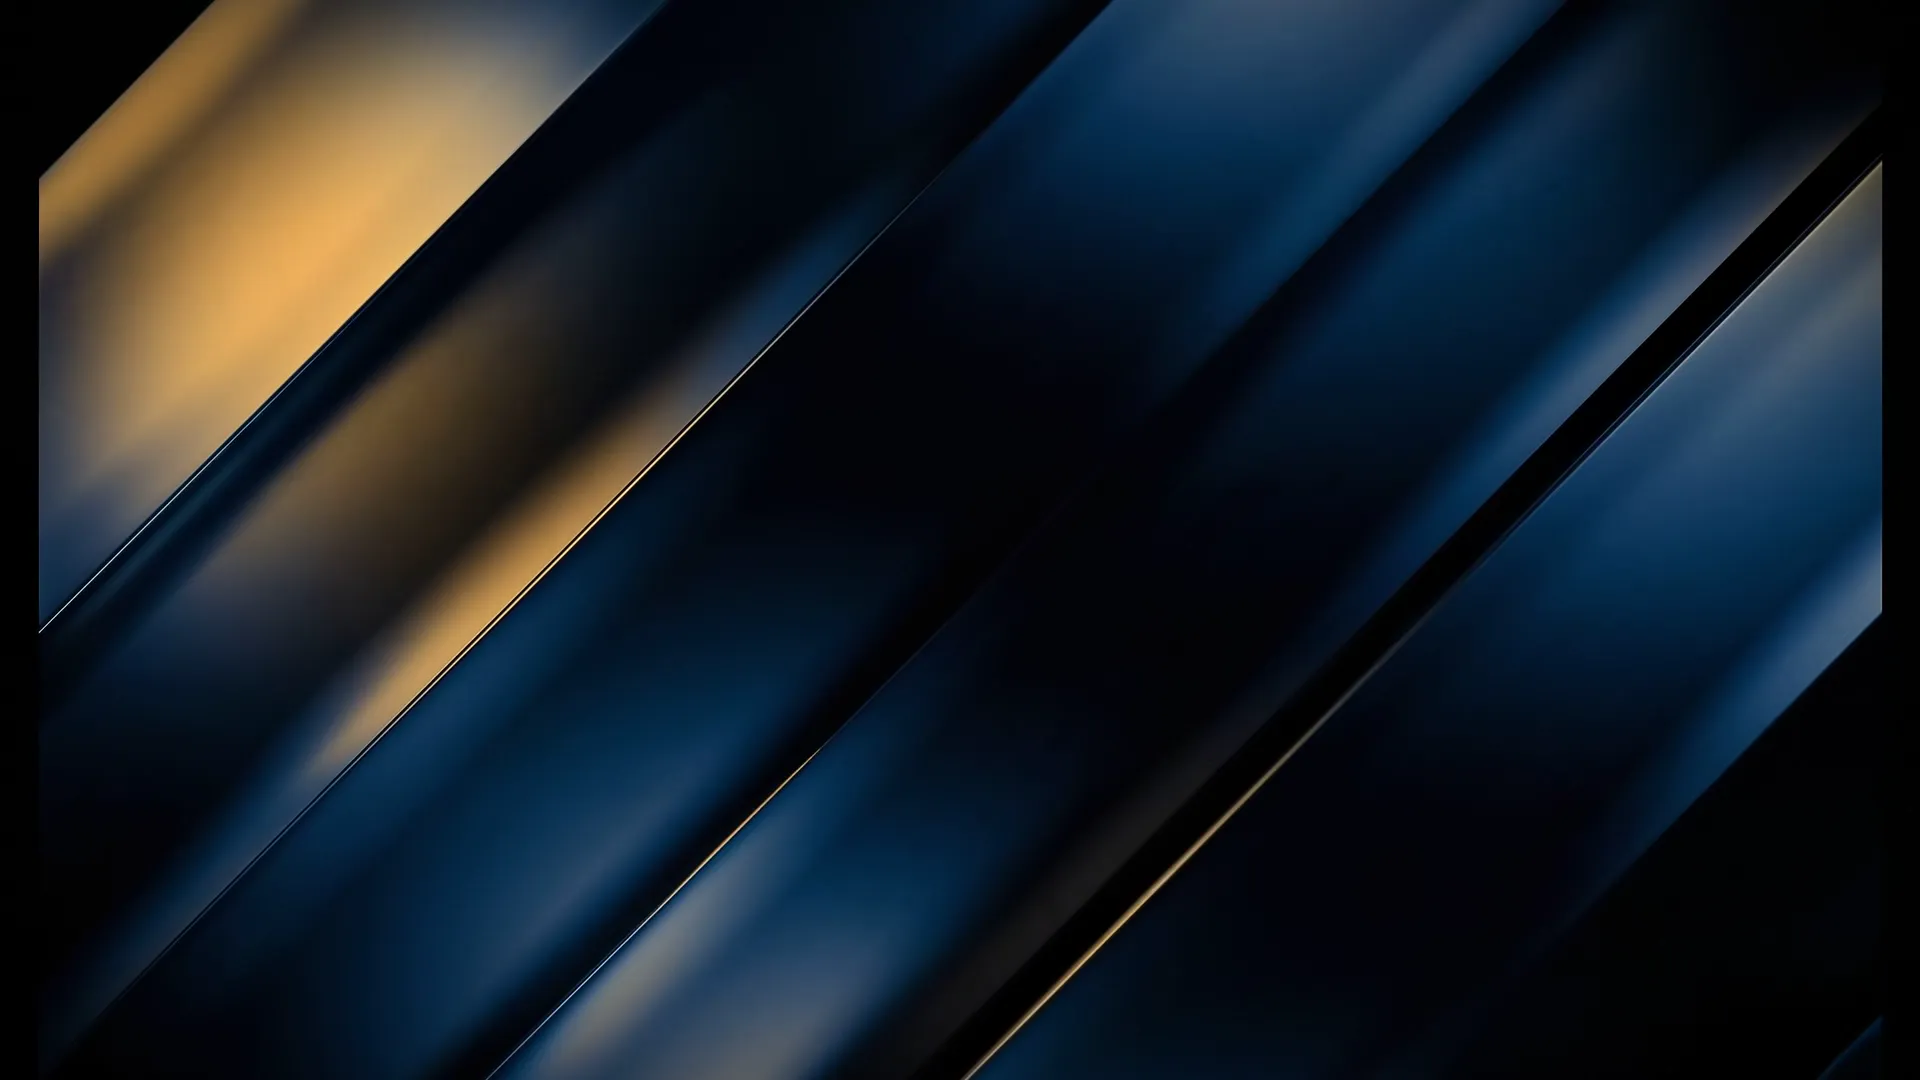
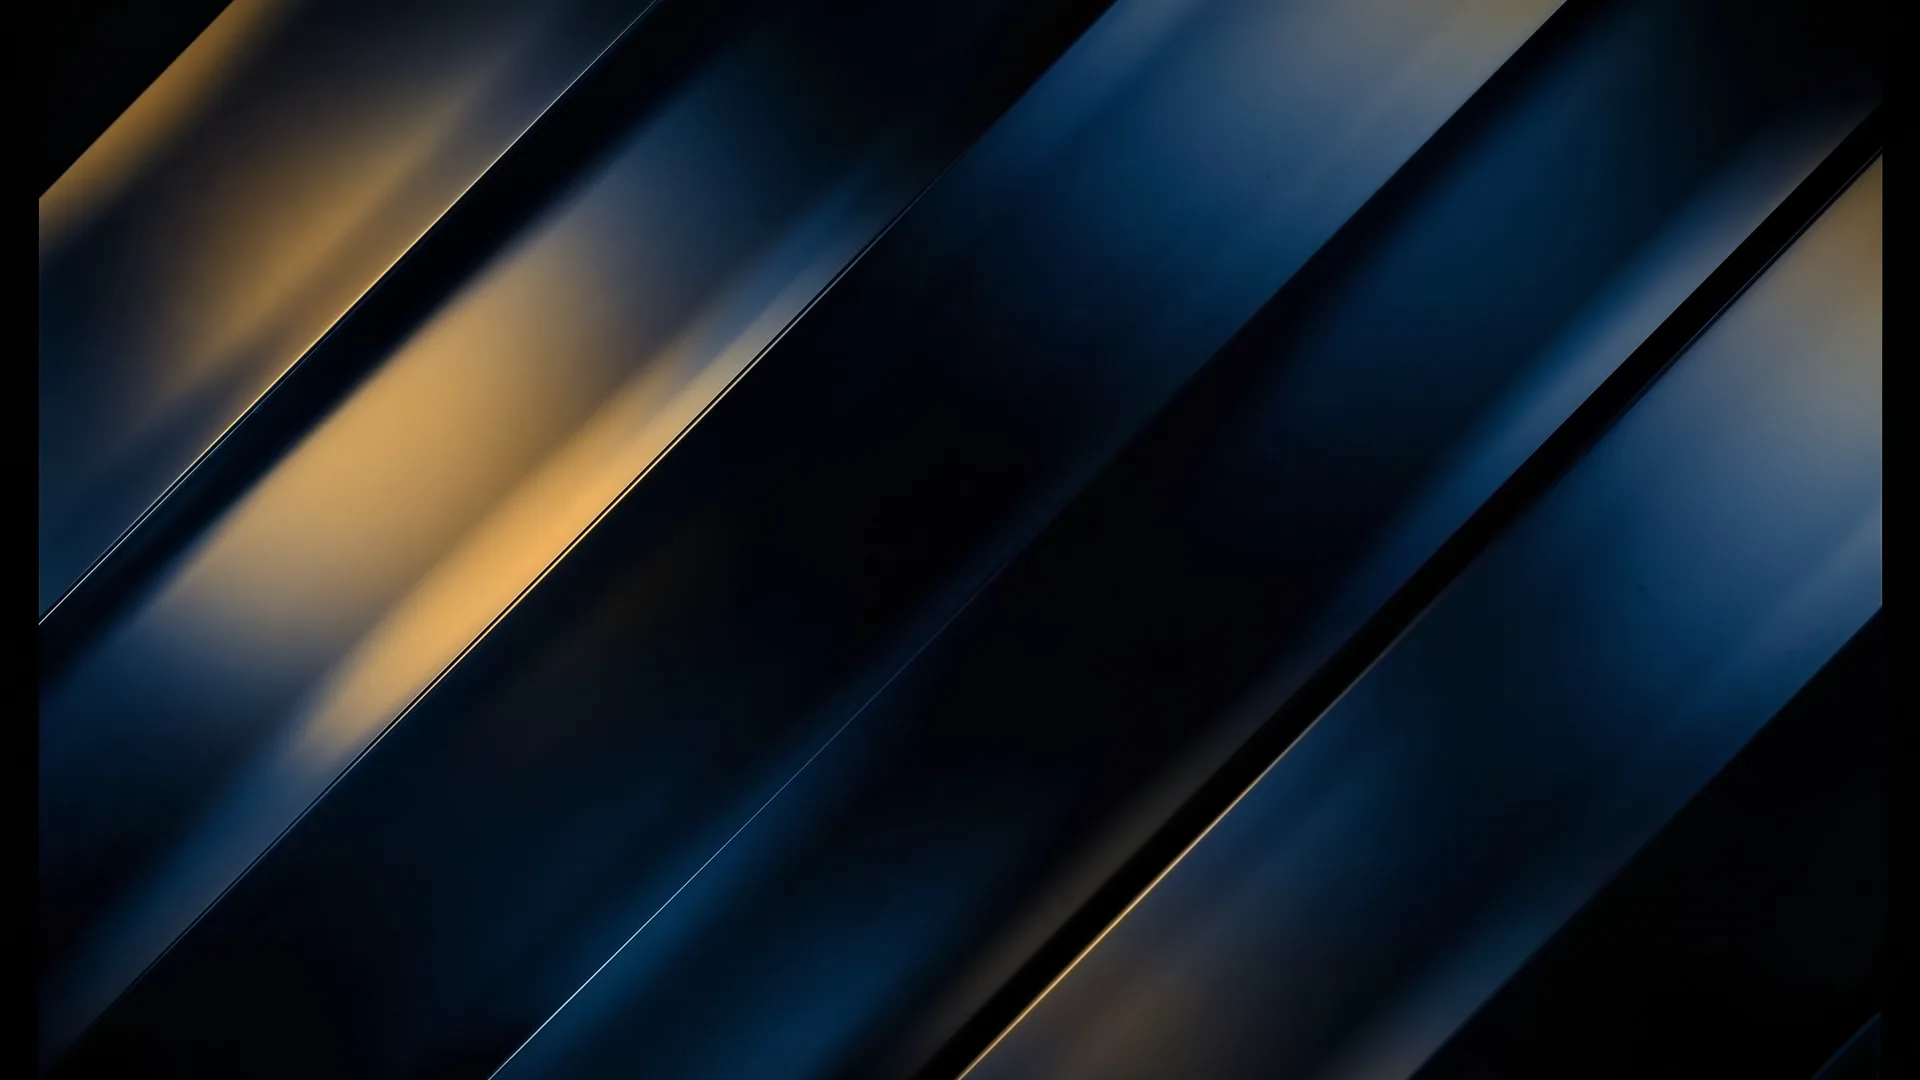
perf(brand): play 60fps re-encoded hero loops at 1x, 720p on phones
The 24fps sources were slowed with playbackRate 0.7, which shows ~17 frames
a second at uneven intervals: the judder. The slowdown now lives in the
files (0.7x, motion-interpolated to 60fps, tail cross-faded into the head),
so they play at 1x. Phones get a 720p cut via <source media>.

The solutions loop now ends on the source's last moving frame (it freezes
after 6.83s), so it no longer halts on a still before looping.

Posters are re-exported from frame 0 of the new loops.

Claude-Session: https://claude.ai/code/session_017ZWHG2bu18opeuAGRjRbMW

diff --git a/packages/brand/src/hero-video.tsx b/packages/brand/src/hero-video.tsx
@@ -4,44 +4,54 @@ import { VideoBackdrop } from './video-backdrop'
 export const HERO_VIDEO_ORIGIN = 'https://cdn.payload.solutions'
 
 /**
- * One hero loop per site. `file` is on the CDN; `poster` is served from that site's own public/
- * folder and is frame 0 of its loop, so the hand-off from still to motion is invisible.
+ * One hero loop per site. `file` (1080p) and `phone` (720p) are on the CDN; `poster` is served
+ * from that site's own public/ folder and is frame 0 of its loop, so the hand-off from still to
+ * motion is invisible.
  *
- * Every loop is cut the same way: audio stripped, the tail cross-faded into the opening so it
- * repeats without a jump, 1080p H.264, played at HERO_VIDEO_PLAYBACK_RATE. solutions and stack
- * are 6.5s loops (~9.3s per pass at 0.7); clock is 4s (~5.7s per pass), because its source fades
- * to black at 5.25s and that fade was cut off.
+ * Every loop is cut the same way from its 24fps source: audio stripped, slowed to 0.7x IN THE
+ * FILE and motion-interpolated to 60fps (ffmpeg minterpolate, mci), then the tail cross-faded
+ * into the opening so it repeats without a jump; H.264 High, faststart. It plays at 1x. The
+ * slowdown used to be a 0.7 playbackRate, which left 24fps footage showing ~17 frames a second
+ * at uneven intervals: the judder. Do not slow these in the browser again; re-encode instead.
+ *
+ * Windows into each source (before the 0.7x): solutions 1.5-6.875s (the source freezes after
+ * 6.83s, so it ends on the last moving frame), stack 1.5-8s, clock 1.25-5.25s (its source
+ * fades to black at 5.25s). Loops run 6.4s, 8s and 4.7s.
  */
 export const HERO_VIDEOS = {
   // Its light streak runs straight through the copy column (and across a phone's lead and
   // action rows), so it needs the strong scrim: measured 3.8:1 under white with the standard one.
   solutions: {
-    file: 'hero-solutions-1080.mp4',
+    file: 'hero-solutions-1080-60.mp4',
+    phone: 'hero-solutions-720-60.mp4',
     poster: '/hero-solutions-poster.webp',
     scrim: 'strong',
   },
-  stack: { file: 'hero-1080.mp4', poster: '/hero-poster.webp', scrim: 'standard' },
+  stack: {
+    file: 'hero-stack-1080-60.mp4',
+    phone: 'hero-stack-720-60.mp4',
+    poster: '/hero-poster.webp',
+    scrim: 'standard',
+  },
   // Amber patches cross a phone's full-width copy (2.1:1 under muted text with the standard
   // scrim); on desktop the two-column scrim alone holds it, see the strong scrim in tailwind.css.
-  clock: { file: 'hero-clock-1080.mp4', poster: '/hero-clock-poster.webp', scrim: 'strong' },
+  clock: {
+    file: 'hero-clock-1080-60.mp4',
+    phone: 'hero-clock-720-60.mp4',
+    poster: '/hero-clock-poster.webp',
+    scrim: 'strong',
+  },
 } as const
 
 export type HeroVideoId = keyof typeof HERO_VIDEOS
 
 /**
- * Playback speed for every site's loop, slowed so the video stays ambient under the hero's own
- * animation. One value for all three sites.
- */
-export const HERO_VIDEO_PLAYBACK_RATE = 0.7
-
-/**
- * The pinned hero video, configured once: CDN file, poster, slowed so it stays ambient under
- * the hero's own animation. Server component: it preconnects to the CDN and preloads the poster
- * (plain <link> elements, which React 19 hoists into <head>, so the brand package needs no
+ * The pinned hero video, configured once: CDN files and poster. Server component: it
+ * preconnects to the CDN and preloads the poster (plain <link> elements, which React 19 hoists into <head>, so the brand package needs no
  * react-dom dependency), then renders the client VideoBackdrop.
  *
- * Further encodes (AV1, VP9, a 720p phone cut) go in front of the MP4 once they are on the CDN;
- * the browser takes the first one it can play.
+ * Further encodes (AV1, VP9) go in front of the MP4s once they are on the CDN; the browser
+ * takes the first one it can play.
  *
  * Place it as the first child of the page's dark ThemeBand, and follow the band with
  * `relative z-10 bg-bg` so the sections after it slide over the video.
@@ -53,17 +63,20 @@ export function HeroVideoBackdrop({
   video: HeroVideoId
   copyColumns?: 1 | 2
 }) {
-  const { file, poster, scrim } = HERO_VIDEOS[video]
+  const { file, phone, poster, scrim } = HERO_VIDEOS[video]
   return (
     <>
       <link rel="preconnect" href={HERO_VIDEO_ORIGIN} />
       <link rel="preload" as="image" href={poster} fetchPriority="high" />
       <VideoBackdrop
         poster={poster}
-        playbackRate={HERO_VIDEO_PLAYBACK_RATE}
         copyColumns={copyColumns}
         scrim={scrim}
-        sources={[{ src: `${HERO_VIDEO_ORIGIN}/${file}`, type: 'video/mp4' }]}
+        sources={[
+          // Phones first: the browser takes the first <source> whose media matches.
+          { src: `${HERO_VIDEO_ORIGIN}/${phone}`, type: 'video/mp4', media: '(max-width: 767px)' },
+          { src: `${HERO_VIDEO_ORIGIN}/${file}`, type: 'video/mp4' },
+        ]}
       />
     </>
   )

diff --git a/apps/payload-solutions/public/README.md b/apps/payload-solutions/public/README.md
@@ -27,14 +27,14 @@ path of the hero.
 
 ## hero-solutions-poster.webp
 
-Frame 0 of this site's hero video (`https://cdn.payload.solutions/hero-solutions-1080.mp4`),
-1920x1080, ~54KB. `HeroVideoBackdrop video="solutions"` (`@payload-solutions/brand/hero-video`,
+Frame 0 of this site's hero video (`https://cdn.payload.solutions/hero-solutions-1080-60.mp4`,
+plus a 720p `hero-solutions-720-60.mp4` for phones), 1920x1080, ~78KB. `HeroVideoBackdrop video="solutions"` (`@payload-solutions/brand/hero-video`,
 where each site's file and poster are listed in `HERO_VIDEOS`) preloads it and uses it as the
 `<video>` poster, so the hero is never an empty black frame while the MP4 buffers, and as the
 still that replaces the video under `prefers-reduced-motion: reduce`.
 
-payloadstack.com runs a different loop (`hero-1080.mp4`) with its own `hero-poster.webp`.
+payloadstack.com runs a different loop (`hero-stack-1080-60.mp4`) with its own `hero-poster.webp`.
 
 If the video is re-cut, re-export this from frame 0 of the new loop
-(`ffmpeg -i hero-solutions-1080.mp4 -frames:v 1 -c:v libwebp -quality 80 hero-solutions-poster.webp`),
+(`ffmpeg -i hero-solutions-1080-60.mp4 -frames:v 1 -c:v libwebp -quality 82 hero-solutions-poster.webp`),
 or the hand-off from still to motion will jump.

diff --git a/apps/payload-clock-web/public/README.md b/apps/payload-clock-web/public/README.md
@@ -7,8 +7,9 @@ failed copy shows up as a flatter page rather than as a broken one.
 
 ## hero-clock-poster.webp
 
-Frame 0 of this site's hero video (`https://cdn.payload.solutions/hero-clock-1080.mp4`, a 4s
-seamless loop cut before the source's fade to black). `HeroVideoBackdrop video="clock"`
+Frame 0 of this site's hero video (`https://cdn.payload.solutions/hero-clock-1080-60.mp4`,
+plus a 720p `hero-clock-720-60.mp4` for phones: a 4.7s 60fps seamless loop cut before the
+source's fade to black; see `HERO_VIDEOS` for how the loops are encoded). `HeroVideoBackdrop video="clock"`
 (`@payload-solutions/brand/hero-video`, where each site's file and poster are listed in
 `HERO_VIDEOS`) preloads it and uses it as the `<video>` poster, and as the still that replaces
 the video under `prefers-reduced-motion: reduce`. If the video is re-cut, re-export this from

diff --git a/apps/payload-stack-web/public/README.md b/apps/payload-stack-web/public/README.md
@@ -26,8 +26,8 @@ path of the hero.
 
 ## hero-poster.webp
 
-Frame 0 of the shared hero video (`https://cdn.payload.solutions/hero-1080.mp4`), the same file
-as `apps/payload-solutions/public/hero-poster.webp`. `HeroVideoBackdrop`
+Frame 0 of this site's hero video (`https://cdn.payload.solutions/hero-stack-1080-60.mp4`, plus
+a 720p `hero-stack-720-60.mp4` for phones). `HeroVideoBackdrop`
 (`@payload-solutions/brand/hero-video`) preloads it and uses it as the `<video>` poster, and as
 the still that replaces the video under `prefers-reduced-motion: reduce`. If the video is
-re-cut, re-export it from frame 0 of the new loop in both apps.
+re-cut, re-export it from frame 0 of the new loop.
